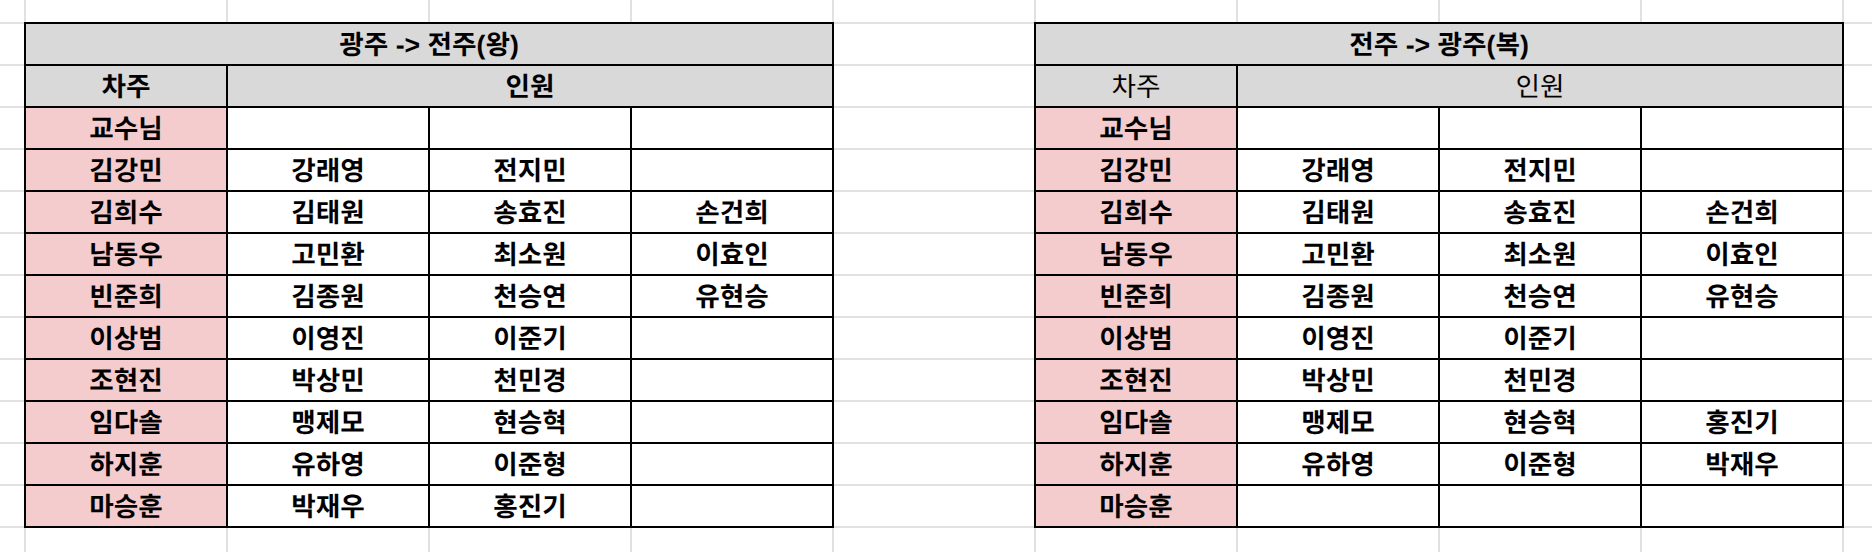
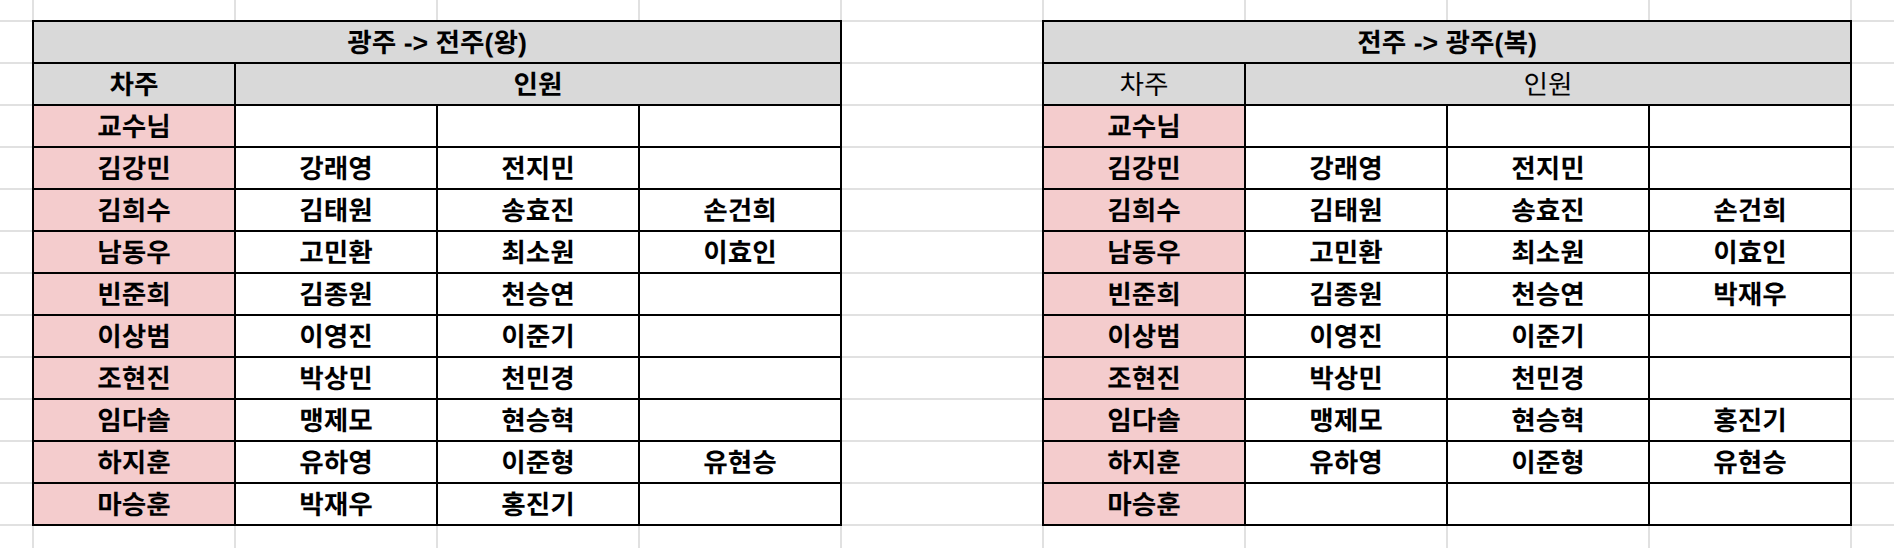
fix image

Changed region(s): [[0.0, 0.031, 1.0, 0.9617], [0.9605, 0.6204, 0.9915, 0.6825]]

diff --git a/index.html b/index.html
@@ -994,7 +994,8 @@
           </div>
 
           <p class="links">
-            <a href="https://map.naver.com/p/search/%EB%B4%89%EA%B0%95%EC%9A%94" target="_blank" rel="noopener">지도 보기</a>
+            <a href="https://map.naver.com/p/search/%EB%B4%89%EA%B0%95%EC%9A%94" target="_blank" rel="noopener">지도
+              보기</a>
           </p>
         </div>
 
@@ -1025,7 +1026,8 @@
                 <li><strong>비치</strong> TV, 냉장고, 에어컨, 전자레인지, 식기류, 드라이기, 세면용품</li>
                 <li><strong>서비스</strong> 숯 · 그릴 · 집게 등 바베큐 장비 제공 (비용 별도)</li>
               </ul>
-              <p class="roominfo-src">출처 · 더 보기: <a href="https://www.wanjutce.kr/Anchae" target="_blank" rel="noopener">완주한옥 더 클래식 · 안채</a></p>
+              <p class="roominfo-src">출처 · 더 보기: <a href="https://www.wanjutce.kr/Anchae" target="_blank"
+                  rel="noopener">완주한옥 더 클래식 · 안채</a></p>
             </div>
           </details>
 
@@ -1047,7 +1049,6 @@
           <ul>
             <li><strong>세면도구</strong> — 안채에 비치되어 있지만, 본인 것을 쓰고 싶으신 분은 개인적으로 챙겨오세요</li>
             <li>흙이 묻어도 괜찮은 <strong>편한 옷</strong>과 갈아입을 옷</li>
-            <li>실내용 슬리퍼</li>
             <li>개인 상비약</li>
           </ul>
         </div>
